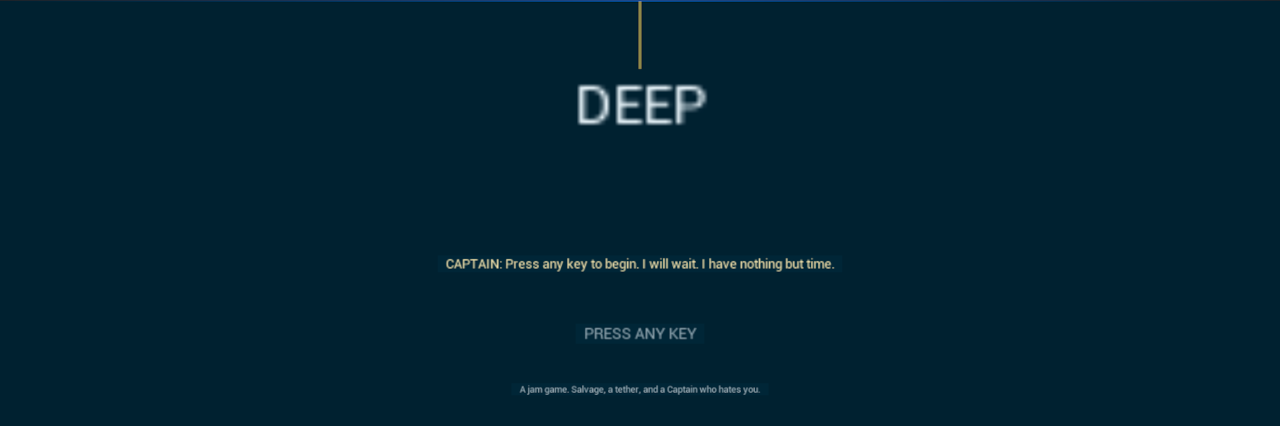
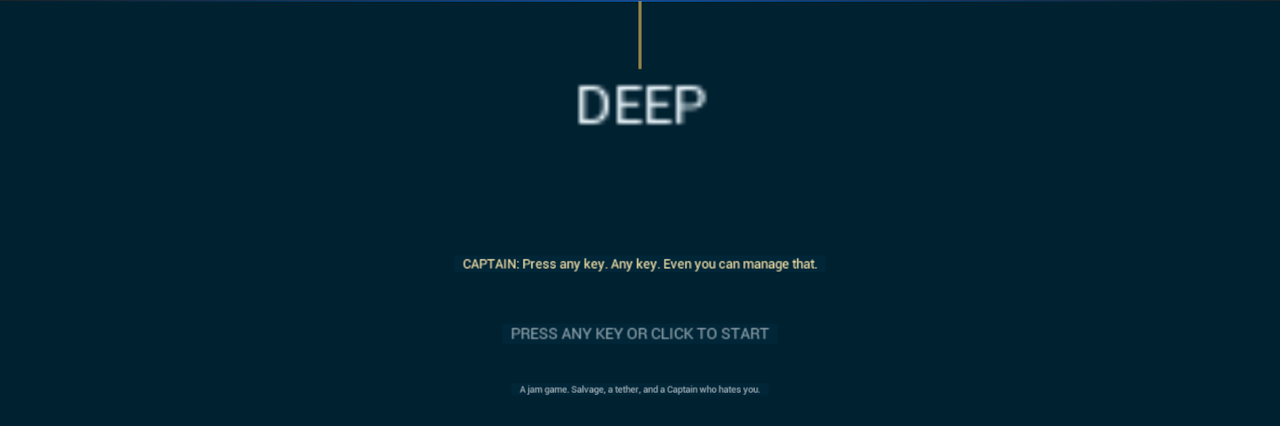
Title starts on any key or click, by either input path; tether distance after a cut
The title only listened in ADeepPlayerController::InputKey, the path a real
key press takes. A key sent straight to PlayerInput (the input tool used by
the scripted playtests) skipped it, so S0-title had to fall back to Deep.Start.
- TitleAction mapped to EKeys::AnyKey (never consumes input) and InputKey both
  call TryStartFromTitle; on the server it starts the run directly.
- Title text: "PRESS ANY KEY OR CLICK TO START".
- DEEPSTATE tether_distance_m is measured to the anchor, so it is no longer 0
  after a cut (the tether solve stops updating then).
- Tests: Deep.World.TitleKey (keys, mouse buttons, Esc, a gamepad button through
  InputKey; mouse movement does not start), Deep.World.TetherDistanceAfterCut.
  playtest S0-title passes without the Deep.Start fallback.

Changed region(s): [[0.3438, 0.6103, 0.6562, 0.6408], [0.375, 0.7629, 0.5938, 0.7934]]

diff --git a/deep/Source/Deep/Private/Tests/DeepTitleKeyTests.cpp b/deep/Source/Deep/Private/Tests/DeepTitleKeyTests.cpp
@@ -1,0 +1,137 @@
+// The title leaves on any key or mouse button through the real key path (Nov 15), and the state report
+// measures the tether distance after a cut.
+
+#include "CoreMinimal.h"
+#include "Debug/DeepStateReport.h"
+#include "Diver/DeepDiver.h"
+#include "Diver/DeepRunComponent.h"
+#include "Dom/JsonObject.h"
+#include "Engine/Engine.h"
+#include "Engine/World.h"
+#include "EngineUtils.h"
+#include "Game/DeepGameMode.h"
+#include "Game/DeepGameState.h"
+#include "Game/DeepPlayerController.h"
+#include "InputCoreTypes.h"
+#include "InputKeyEventArgs.h"
+#include "Misc/AutomationTest.h"
+#include "Serialization/JsonReader.h"
+#include "Serialization/JsonSerializer.h"
+#include "Sim/DeepRules.h"
+#include "World/DeepSubmarine.h"
+
+#if WITH_DEV_AUTOMATION_TESTS
+
+#define DEEP_TITLE_TEST_FLAGS (EAutomationTestFlags_ApplicationContextMask | EAutomationTestFlags::ProductFilter)
+
+namespace DeepTitleTest
+{
+	struct FFeelWorld
+	{
+		UWorld* World = nullptr;
+		ADeepGameMode* GameMode = nullptr;
+		ADeepGameState* State = nullptr;
+		ADeepSubmarine* Sub = nullptr;
+		ADeepDiver* Diver = nullptr;
+		UDeepRunComponent* Run = nullptr;
+
+		FFeelWorld()
+		{
+			World = UWorld::CreateWorld(EWorldType::Game, false);
+			FWorldContext& Context = GEngine->CreateNewWorldContext(EWorldType::Game);
+			Context.SetCurrentWorld(World);
+			World->InitializeActorsForPlay(FURL());
+			GameMode = World->SpawnActor<ADeepGameMode>();
+			Sub = GameMode ? GameMode->EnsureArena() : nullptr;
+			if (GameMode)
+			{
+				GameMode->StartPlay();
+			}
+			State = World->GetGameState<ADeepGameState>();
+			if (Sub)
+			{
+				Diver = World->SpawnActor<ADeepDiver>(Sub->GetDiverStartTransform().GetLocation(), FRotator::ZeroRotator);
+			}
+			Run = Diver ? Diver->GetRun() : nullptr;
+		}
+
+		~FFeelWorld()
+		{
+			if (World->HasBegunPlay())
+			{
+				World->EndPlay(EEndPlayReason::Quit);
+			}
+			GEngine->DestroyWorldContext(World);
+			World->DestroyWorld(false);
+		}
+
+		bool Valid() const { return GameMode && State && Sub && Diver && Run; }
+		void Cmd(const TCHAR* Command) const { GEngine->Exec(World, Command); }
+	};
+
+	TSharedPtr<FJsonObject> StateJson(UWorld* World)
+	{
+		TSharedPtr<FJsonObject> Json;
+		const TSharedRef<TJsonReader<>> Reader = TJsonReaderFactory<>::Create(DeepStateReport::BuildJson(World));
+		FJsonSerializer::Deserialize(Reader, Json);
+		return Json;
+	}
+}
+
+IMPLEMENT_SIMPLE_AUTOMATION_TEST(FDeepTitleKeyTest, "Deep.World.TitleKey", DEEP_TITLE_TEST_FLAGS)
+bool FDeepTitleKeyTest::RunTest(const FString& Parameters)
+{
+	using namespace DeepTitleTest;
+	FFeelWorld W;
+	UTEST_TRUE(TEXT("World, game mode, state, sub, diver, run"), W.Valid());
+	ADeepPlayerController* PC = W.World->SpawnActor<ADeepPlayerController>();
+	UTEST_NOT_NULL(TEXT("Player controller"), PC);
+	PC->Possess(W.Diver);
+
+	// The same call the game viewport makes for a real key press (UGameViewportClient::InputKey -> PC->InputKey).
+	auto Press = [PC](const FKey& Key, float Amount = 1.f)
+	{
+		return PC->InputKey(FInputKeyEventArgs::CreateSimulated(Key, IE_Pressed, Amount));
+	};
+	for (const FKey& Key : { EKeys::K, EKeys::SpaceBar, EKeys::Enter, EKeys::LeftMouseButton, EKeys::RightMouseButton, EKeys::Escape, EKeys::Gamepad_FaceButton_Bottom })
+	{
+		W.Cmd(TEXT("Deep.Title"));
+		UTEST_TRUE(TEXT("On the title"), W.State->bOnTitle);
+		const bool bUsed = Press(Key);
+		TestTrue(FString::Printf(TEXT("%s was used by the title"), *Key.ToString()), bUsed);
+		TestFalse(FString::Printf(TEXT("%s left the title"), *Key.ToString()), W.State->bOnTitle);
+		TestEqual(FString::Printf(TEXT("%s: aboard"), *Key.ToString()), W.Run->GetState(), EDeepRunState::Aboard);
+		TestFalse(FString::Printf(TEXT("%s: no pause menu"), *Key.ToString()), PC->IsPauseMenuOpen());
+	}
+
+	// Moving the mouse is not a key: the title stays.
+	W.Cmd(TEXT("Deep.Title"));
+	Press(EKeys::MouseX, 3.f);
+	TestTrue(TEXT("Mouse movement keeps the title"), W.State->bOnTitle);
+
+	// The other entry (a key that reaches PlayerInput directly, Enhanced Input AnyKey) ends in the same function.
+	TestTrue(TEXT("TryStartFromTitle leaves the title"), PC->TryStartFromTitle());
+	TestFalse(TEXT("Title left"), W.State->bOnTitle);
+	TestFalse(TEXT("Not on the title: nothing to leave"), PC->TryStartFromTitle());
+	return true;
+}
+
+IMPLEMENT_SIMPLE_AUTOMATION_TEST(FDeepTetherDistanceCutTest, "Deep.World.TetherDistanceAfterCut", DEEP_TITLE_TEST_FLAGS)
+bool FDeepTetherDistanceCutTest::RunTest(const FString& Parameters)
+{
+	using namespace DeepTitleTest;
+	FFeelWorld W;
+	UTEST_TRUE(TEXT("World"), W.Valid());
+	W.Cmd(TEXT("Deep.Hatch"));
+	UTEST_TRUE(TEXT("Diving"), W.Run->CanSwim());
+	W.Diver->SetActorLocation(W.Sub->GetAnchorLocation() + FVector(2000.f, 0.f, -500.f));
+	W.Cmd(TEXT("Deep.ForceCut"));
+	TestEqual(TEXT("Cut"), W.Run->GetState(), EDeepRunState::Cut);
+	const TSharedPtr<FJsonObject> Json = StateJson(W.World);
+	UTEST_TRUE(TEXT("State JSON"), Json.IsValid());
+	const double Distance = Json->GetNumberField(TEXT("tether_distance_m"));
+	TestTrue(FString::Printf(TEXT("tether_distance_m after a cut is the real distance (%.1f m), not 0"), Distance), Distance > 15.0);
+	return true;
+}
+
+#endif

diff --git a/deep/Source/Deep/Game/DeepPlayerController.cpp b/deep/Source/Deep/Game/DeepPlayerController.cpp
@@ -3,6 +3,7 @@
 #include "Diver/DeepDiver.h"
 #include "Diver/DeepRunComponent.h"
 #include "Engine/World.h"
+#include "EngineUtils.h"
 #include "Game/DeepGameMode.h"
 #include "Game/DeepGameState.h"
 #include "InputKeyEventArgs.h"
@@ -81,6 +82,9 @@ void ADeepPlayerController::BuildInputObjects()
 	LampAction = MakeAction(this, TEXT("IA_Lamp"), EInputActionValueType::Boolean);
 	CutAction = MakeAction(this, TEXT("IA_Cut"), EInputActionValueType::Boolean);
 	ContinueAction = MakeAction(this, TEXT("IA_Continue"), EInputActionValueType::Boolean);
+	TitleAction = MakeAction(this, TEXT("IA_Title"), EInputActionValueType::Boolean);
+	// Listens to every key: it must never block another action's key.
+	TitleAction->bConsumeInput = false;
 
 	Mapping = NewObject<UInputMappingContext>(this, TEXT("IMC_Diver"));
 
@@ -109,6 +113,9 @@ void ADeepPlayerController::BuildInputObjects()
 	Mapping->MapKey(ContinueAction, EKeys::Enter);
 	Mapping->MapKey(ContinueAction, EKeys::E);
 	Mapping->MapKey(ContinueAction, EKeys::LeftMouseButton);
+	// The title: any non-analog key or mouse button. A real press is caught first in InputKey; this catches keys
+	// that reach PlayerInput directly (input injection, as the scripted playtests do).
+	Mapping->MapKey(TitleAction, EKeys::AnyKey);
 }
 
 void ADeepPlayerController::AddMappingToLocalPlayer()
@@ -147,6 +154,7 @@ void ADeepPlayerController::SetupInputComponent()
 	Input->BindAction(CutAction, ETriggerEvent::Started, this, &ADeepPlayerController::OnCutStart);
 	Input->BindAction(CutAction, ETriggerEvent::Completed, this, &ADeepPlayerController::OnCutStop);
 	Input->BindAction(ContinueAction, ETriggerEvent::Started, this, &ADeepPlayerController::OnContinue);
+	Input->BindAction(TitleAction, ETriggerEvent::Started, this, &ADeepPlayerController::OnTitleKey);
 
 	AddMappingToLocalPlayer();
 }
@@ -302,7 +310,6 @@ void ADeepPlayerController::SetPauseMenu(bool bOpen)
 
 bool ADeepPlayerController::HandleMenuKey(const FKey& Key)
 {
-	const ADeepGameState* State = GetWorld() ? GetWorld()->GetGameState<ADeepGameState>() : nullptr;
 	const ADeepDiver* Diver = GetDiver();
 	const UDeepRunComponent* Run = Diver ? Diver->GetRun() : nullptr;
 	const bool bUp = Key == EKeys::Up || Key == EKeys::W;
@@ -311,10 +318,8 @@ bool ADeepPlayerController::HandleMenuKey(const FKey& Key)
 	const bool bMenuKey = Key == EKeys::Escape || Key == EKeys::P;
 
 	// The title: any key starts the run.
-	if (State && State->bOnTitle)
+	if (TryStartFromTitle())
 	{
-		ClearDiverInput();
-		ServerStartRun();
 		return true;
 	}
 
@@ -393,6 +398,40 @@ void ADeepPlayerController::ServerRestartRun_Implementation()
 	{
 		GameMode->RestartRun();
 	}
+}
+
+bool ADeepPlayerController::TryStartFromTitle()
+{
+	const ADeepGameState* State = GetWorld() ? GetWorld()->GetGameState<ADeepGameState>() : nullptr;
+	if (!State || !State->bOnTitle)
+	{
+		return false;
+	}
+	ClearDiverInput();
+	// On the server (standalone, listen host) start directly; a remote client asks the server.
+	if (HasAuthority())
+	{
+		ADeepGameMode* GameMode = GetWorld()->GetAuthGameMode<ADeepGameMode>();
+		// Test worlds spawn the game mode as a plain actor (as the Deep.* cheats allow for).
+		for (TActorIterator<ADeepGameMode> It(GetWorld()); It && !GameMode; ++It)
+		{
+			GameMode = *It;
+		}
+		if (GameMode)
+		{
+			GameMode->StartRun();
+		}
+	}
+	else
+	{
+		ServerStartRun();
+	}
+	return true;
+}
+
+void ADeepPlayerController::OnTitleKey()
+{
+	TryStartFromTitle();
 }
 
 void ADeepPlayerController::OnContinue()

diff --git a/deep/Source/Deep/Debug/DeepStateReport.cpp b/deep/Source/Deep/Debug/DeepStateReport.cpp
@@ -11,6 +11,7 @@
 #include "Policies/CondensedJsonPrintPolicy.h"
 #include "Serialization/JsonSerializer.h"
 #include "Serialization/JsonWriter.h"
+#include "Sim/DeepRules.h"
 #include "Diver/DeepRunComponent.h"
 #include "Harpoon/DeepHarpoonComponent.h"
 #include "Story/DeepCaptain.h"
@@ -61,7 +62,10 @@ namespace DeepStateReport
 		Json->SetNumberField(TEXT("cargo_items"), Diver ? Diver->GetCargo().Num() : 0);
 		Json->SetBoolField(TEXT("overloaded"), Weight.bOverloaded);
 		Json->SetNumberField(TEXT("tether_length_m"), Solve.LengthM);
-		Json->SetNumberField(TEXT("tether_distance_m"), Solve.DistanceM);
+		// The distance to the anchor is measured, not taken from the solve: after a cut the solve stops updating.
+		const bool bMeasure = Diver && Tether && Tether->GetSubmarine();
+		const float AnchorM = bMeasure ? FVector::Dist(Diver->GetActorLocation(), Tether->GetAnchorLocation()) / UDeepRules::CmPerM : Solve.DistanceM;
+		Json->SetNumberField(TEXT("tether_distance_m"), AnchorM);
 		Json->SetNumberField(TEXT("tether_left_m"), Solve.LeftM);
 		Json->SetNumberField(TEXT("tether_strain"), Solve.Strain);
 		Json->SetBoolField(TEXT("tether_taut"), Solve.bTaut);

diff --git a/deep/Source/Deep/Game/DeepPlayerController.h b/deep/Source/Deep/Game/DeepPlayerController.h
@@ -38,6 +38,12 @@ public:
 
 	virtual bool InputKey(const FInputKeyEventArgs& Params) override;
 
+	/**
+	 * Leaves the title if it is up; true when it did. Both routes a key takes end here: a real press
+	 * (viewport -> InputKey) and a key that reaches PlayerInput directly (Enhanced Input AnyKey -> TitleAction).
+	 */
+	bool TryStartFromTitle();
+
 protected:
 	virtual void BeginPlay() override;
 	virtual void SetupInputComponent() override;
@@ -58,6 +64,7 @@ protected:
 	void OnCutStart();
 	void OnCutStop();
 	void OnContinue();
+	void OnTitleKey();
 
 	/** A key press while a menu or the title is up. True when it was used (and must not reach the diver). */
 	bool HandleMenuKey(const FKey& Key);
@@ -105,4 +112,8 @@ protected:
 
 	UPROPERTY(Transient)
 	TObjectPtr<UInputAction> ContinueAction;
+
+	/** Mapped to EKeys::AnyKey: any key or mouse button leaves the title. */
+	UPROPERTY(Transient)
+	TObjectPtr<UInputAction> TitleAction;
 };

diff --git a/deep/Source/Deep/Game/DeepHUD.cpp b/deep/Source/Deep/Game/DeepHUD.cpp
@@ -170,7 +170,7 @@ void ADeepHUD::DrawTitle(float RealNow)
 
 	FLinearColor Prompt = TextColor;
 	Prompt.A = 0.8f + 0.2f * FMath::Sin(RealNow * 3.f);
-	TextCentered(TEXT("PRESS ANY KEY"), Prompt, Canvas->ClipY * 0.76f, BigFont, 1.2f);
+	TextCentered(TEXT("PRESS ANY KEY OR CLICK TO START"), Prompt, Canvas->ClipY * 0.76f, BigFont, 1.2f);
 	TextCentered(TEXT("A jam game. Salvage, a tether, and a Captain who hates you."), DimColor, Canvas->ClipY * 0.90f, nullptr, 0.7f);
 }
 

diff --git a/deep-claude-brain/05 - Log/Devlog.md b/deep-claude-brain/05 - Log/Devlog.md
@@ -225,6 +225,10 @@ Times are EST. Mark a time "about" when it comes from memory and not from a time
 - What happened: Of the nine old scenarios (S0 to S8), eight failed on the new game (the first run was also partly spoiled by an editor still loading, so some of those failures were the editor and not the game). Rewrote them as eight scenarios that assert on game state: `S0-title`, `S1-hatch`, `S2-gate`, `S3-serpent`, `S4-cut`, `S5-harpoon`, `S6-bank`, `S7-run`. Two full passes before merging `origin/main`: 8 of 8 both times (about 7.5 to 8 minutes each). After merging the sound layer only `S1-hatch` (now also asserts `audio.last` and a playing loop: `enter_sub`, `loop_drone_in`) and `S7-run` were re-run, both pass. Packaged the merged tree: 707 MB on disk, 426.5 MB zipped, smoke clean.
 - Why it matters: Three of my own test bugs, none a game bug: a diver cut at the hatch is re-tethered at once (so cut tests must swim away first); `Deep.GiveSalvage 40 ...` is typed as the relic because 40 kg matches the relic's mass, so it won the game at stop 2; and a PowerShell precedence slip. Found while testing: `Deep.Start` is needed because a key press sent through the input tool does not leave the title (not checked with a real keyboard). The frames show things for the next feel pass: the helm frame shows "LIMIT 400" overlapping the depth gauge bar, the first-dive CONTROLS panel is still up at the hatch, the console panel shows while looking at the helm, and the win screen shows the status panel faintly through it.
 - Evidence: `tools/playtest.ps1`, frames `devlog/media/2026-11-15-play-*.png`, package log `deep/Saved/Harness/package-20261115-005426.log`.
+### 1:24 AM  Why the title ignored the playtest's key, and a cut halfway through the task
+- What happened: The title already took any key, but only through `ADeepPlayerController::InputKey`, the path a real key takes (game viewport to controller). The input tool sends its key straight to `PlayerInput`, past that function, so its Space reached Enhanced Input, which had nothing for the title. Now an Enhanced Input action mapped to `AnyKey` also leaves the title, and both paths call one function, `TryStartFromTitle`. The title text says "PRESS ANY KEY OR CLICK TO START". `tether_distance_m` read 0 after a cut because the tether solve stops updating; the state report now measures the distance to the anchor. Halfway through, Quinn cut the helm motion cues (specks, shaft walls, a speed readout) and the HUD-per-mode rework: the HUD and the look will be redone properly later, and placeholder polish in between is wasted. That code built and is parked on `parked/motion-hud`, not merged.
+- Why it matters: The first thing a judge does is press a key on the title, and now the scripted playtest proves it without the `Deep.Start` cheat. A first version of the new test failed for a test reason: a test world spawns the game mode as a plain actor, so `GetAuthGameMode` is empty. The controller now finds the game mode the same way the cheats do.
+- Evidence: `Deep.World.TitleKey` (K, Space, Enter, LMB, RMB, Esc, a gamepad button through `InputKey`; mouse movement does not start), `Deep.World.TetherDistanceAfterCut`, `Deep.World.FullRunCommands` all pass; `playtest.ps1 S0-title` PASS with no fallback note; frame `devlog/media/2026-11-15-feel-title.png`. A physical keyboard is still unchecked.
 
 ## Cut list
 

diff --git a/deep/Source/Deep/ARCHITECTURE.md b/deep/Source/Deep/ARCHITECTURE.md
@@ -2,7 +2,7 @@
 
 Folders (include from the module root, e.g. `#include "Sim/DeepRules.h"`):
 - `Sim/` pure rules. `UDeepRules` = static functions (depth, zones, tether solve, winch, weight, swim, grab pick, Patience, settlement, fees, gates (`TryBuyHull`), bailout, salvage spots, relic, review; the helm: `HelmDepthLimitM`, `HelmStep`, `HelmParkStop`, `NearestStop`, `InHatchColumn`). `DeepTuningTypes.h` = USTRUCT tuning + result types (`FDeepSubTuning` = room, hatch, console, helm, drive speed, limits). `UDeepTuningSettings` = every design number (Project Settings > Game > DEEP Tuning). Defaults are in its constructor and the struct initialisers; never add a DEEP Tuning section to `DefaultGame.ini`.
-- `Game/` framework. `ADeepGameMode` (builds arena, spawns divers on the deck at `GetRoomStartTransform`, `GotoStop` = jump and park, `EnterTitle`/`StartRun`/`RestartRun`), `ADeepGameState` (Stop = loaded arena, `SubDepthM`, `bParked`, `DeepestStopReached`, Credits, HullRating = gates+1 with `HasFlashlight`/`IsHullUpgraded`/`DepthLimitM`/`ParkedStop`, DiverNumber, HullDamage, HullRepairsOwed, bOnTitle, bWon, run totals; replicated), `ADeepPlayerController` (Enhanced Input built with NewObject; `KeyHint`; menus read raw in `InputKey`), `ADeepHUD` (canvas: title, status, aboard (`DrawAboard`: labels on hatch/console/helm + the one next step + console panel), helm (`DrawHelm`: depth gauge, stops, limit and why), Patience, threat, bite band, death/settlement/review panels, pause menu).
+- `Game/` framework. `ADeepGameMode` (builds arena, spawns divers on the deck at `GetRoomStartTransform`, `GotoStop` = jump and park, `EnterTitle`/`StartRun`/`RestartRun`), `ADeepGameState` (Stop = loaded arena, `SubDepthM`, `bParked`, `DeepestStopReached`, Credits, HullRating = gates+1 with `HasFlashlight`/`IsHullUpgraded`/`DepthLimitM`/`ParkedStop`, DiverNumber, HullDamage, HullRepairsOwed, bOnTitle, bWon, run totals; replicated), `ADeepPlayerController` (Enhanced Input built with NewObject; `KeyHint`; menus read raw in `InputKey`; the title leaves on any key via `TryStartFromTitle`, from `InputKey` and an AnyKey action), `ADeepHUD` (canvas: title, status, aboard (`DrawAboard`: labels on hatch/console/helm + the one next step + console panel), helm (`DrawHelm`: depth gauge, stops, limit and why), Patience, threat, bite band, death/settlement/review panels, pause menu).
 - `Diver/` `ADeepDiver` (ACharacter: MOVE_Flying in the water, MOVE_Walking + gravity aboard via `SetAboard`; seated, the view target is the sub's helm camera; E = grab in water, use aboard; the lamp needs the flashlight), `UDeepTetherComponent` (TG_PostPhysics: winch, length clamp, line; depth from `SubDepthM`), `UDeepRunComponent` (the run state machine, below).
 - `Story/` `UDeepEventBus` (`Broadcast(name, payload)`; names in `DeepEvent::` = `event` column of `Content/Data/CaptainLines.csv`), `UDeepCaptain` (picks a line, subtitle queue by urgency).
 - `Monster/` the sea serpent (see `Monster/README.md`): pure rules, settings, `UDeepMonsterBrain` (spawns at stop >= 2), `ADeepSerpent`, `ADeepSerpentController`. It only hunts divers who can swim; aboard is safe.
